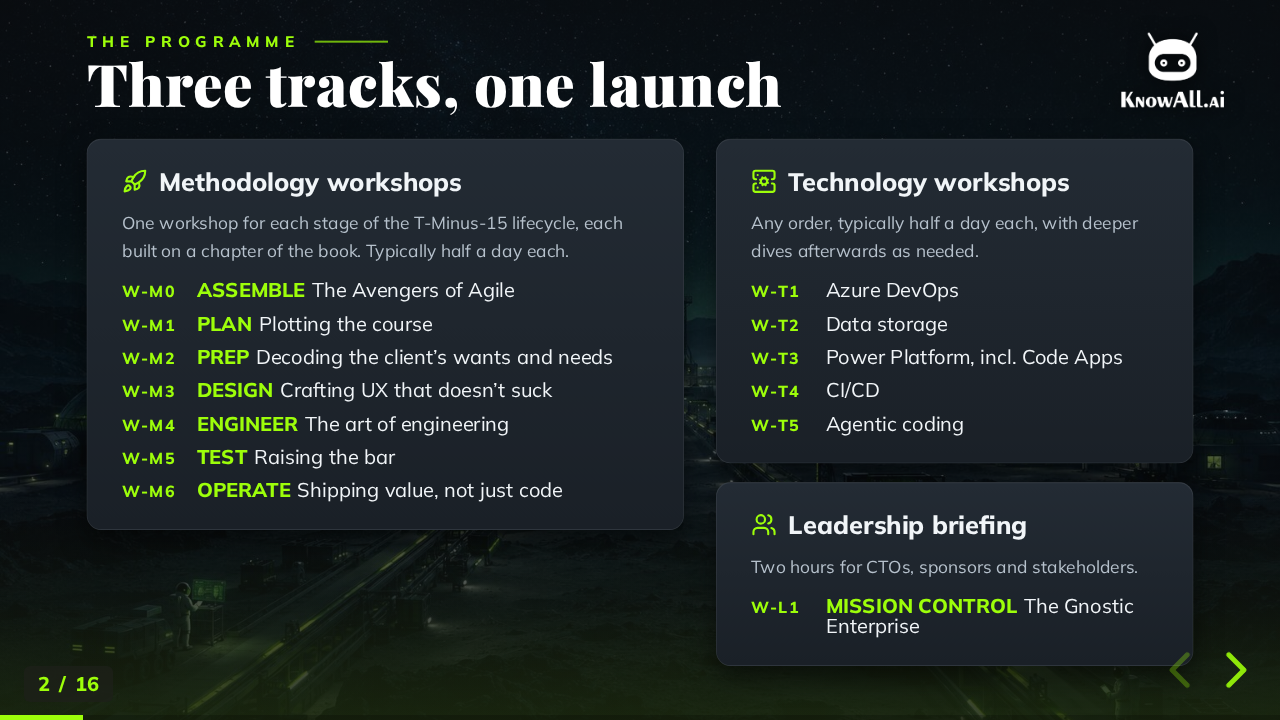
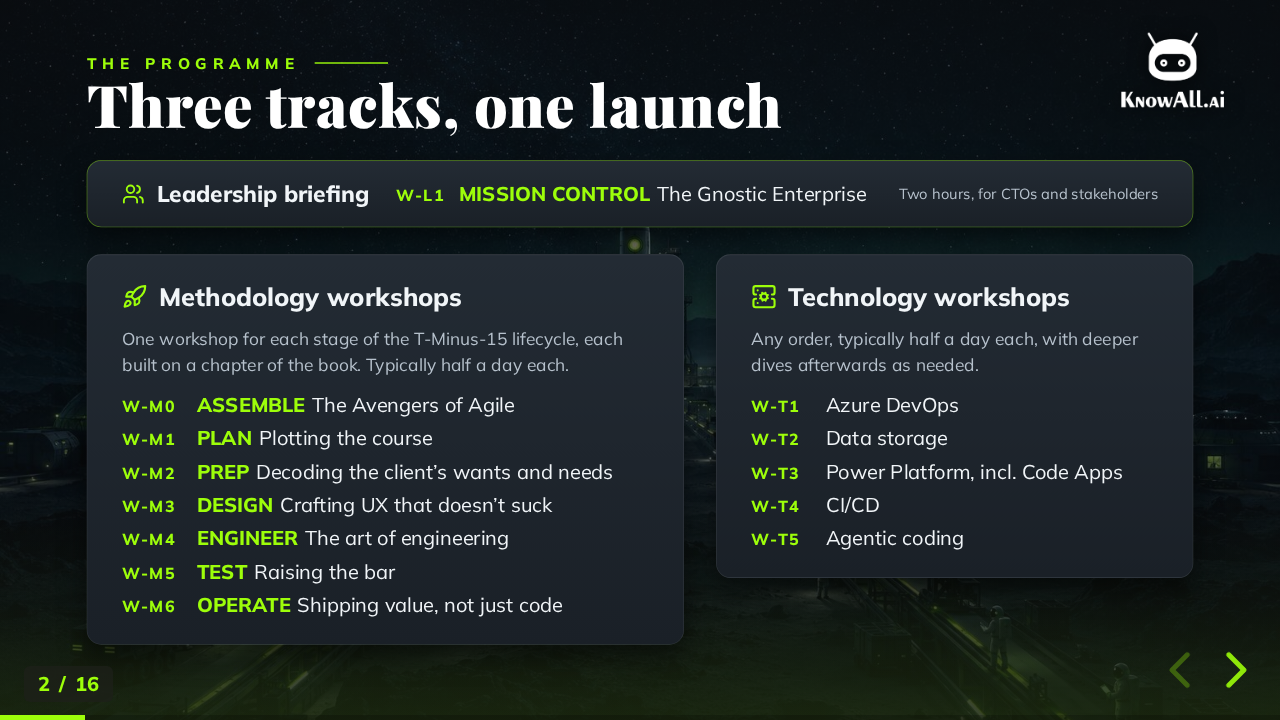
feat(presentations): leadership briefing leads the overview slide
Slide 2's Leadership briefing moves from under the technology card to a
slim full-width strip above both workshop tracks, matching the deck order
(the briefing is slide 3, before the workshops).

diff --git a/presentations-src/tminus15-workshops.html b/presentations-src/tminus15-workshops.html
@@ -69,15 +69,58 @@
         align-items: start;
       }
 
-      .tm-stack {
+      /* Leadership briefing: a slim strip above the two workshop tracks. */
+      .tm-lead {
         display: flex;
-        flex-direction: column;
-        gap: 28px;
+        align-items: center;
+        gap: 40px;
+        padding: 26px 52px;
+        background: linear-gradient(180deg, var(--panel), var(--panel-lo));
+        border: 1px solid var(--line-lime, var(--line));
+        border-radius: 22px;
+        box-shadow: var(--shadow-card), var(--inset-top);
       }
 
-      .tm-track--lead {
-        padding: 34px 48px;
-        gap: 16px;
+      .tm-lead h3 {
+        display: flex;
+        align-items: center;
+        gap: 18px;
+        font-size: 34px;
+        color: var(--text);
+        white-space: nowrap;
+      }
+
+      .tm-lead h3 .ic {
+        color: var(--lime);
+      }
+
+      .tm-lead .tm-lead-item {
+        display: flex;
+        align-items: baseline;
+        gap: 22px;
+        font-size: 30px;
+        color: var(--text);
+        white-space: nowrap;
+      }
+
+      .tm-lead .code {
+        font-weight: 800;
+        font-size: 24px;
+        letter-spacing: 0.08em;
+        color: var(--lime);
+      }
+
+      .tm-lead .phase {
+        font-weight: 800;
+        color: var(--lime);
+        margin-right: 10px;
+      }
+
+      .tm-lead .tm-rule {
+        margin-left: auto;
+        font-size: 22px;
+        color: var(--mist);
+        white-space: nowrap;
       }
 
       .tm-track {
@@ -323,6 +366,11 @@
               <p class="kicker">The programme</p>
               <h2>Three tracks, one launch</h2>
             </div>
+            <div class="tm-lead">
+              <h3><svg class="ic" aria-hidden="true"><use href="icons.svg#i-users" /></svg>Leadership briefing</h3>
+              <p class="tm-lead-item"><span class="code">W-L1</span><span><span class="phase">MISSION CONTROL</span>The Gnostic Enterprise</span></p>
+              <p class="tm-rule">Two hours, for CTOs and stakeholders</p>
+            </div>
             <div class="tm-tracks">
               <div class="tm-track">
                 <h3><svg class="ic" aria-hidden="true"><use href="icons.svg#i-rocket" /></svg>Methodology workshops</h3>
@@ -337,7 +385,6 @@
                   <li><span class="code">W-M6</span><span><span class="phase">OPERATE</span>Shipping value, not just code</span></li>
                 </ol>
               </div>
-              <div class="tm-stack">
               <div class="tm-track">
                 <h3><svg class="ic" aria-hidden="true"><use href="icons.svg#i-server-cog" /></svg>Technology workshops</h3>
                 <p class="tm-rule">Any order, typically half a day each, with deeper dives afterwards as needed.</p>
@@ -348,14 +395,6 @@
                   <li><span class="code">W-T4</span><span>CI/CD</span></li>
                   <li><span class="code">W-T5</span><span>Agentic coding</span></li>
                 </ol>
-              </div>
-              <div class="tm-track tm-track--lead">
-                <h3><svg class="ic" aria-hidden="true"><use href="icons.svg#i-users" /></svg>Leadership briefing</h3>
-                <p class="tm-rule">Two hours for CTOs, sponsors and stakeholders.</p>
-                <ol>
-                  <li><span class="code">W-L1</span><span><span class="phase">MISSION CONTROL</span>The Gnostic Enterprise</span></li>
-                </ol>
-              </div>
               </div>
             </div>
           </div>

diff --git a/public/presentations/tminus15-workshops.html b/public/presentations/tminus15-workshops.html
@@ -93,15 +93,58 @@
         align-items: start;
       }
 
-      .tm-stack {
+      /* Leadership briefing: a slim strip above the two workshop tracks. */
+      .tm-lead {
         display: flex;
-        flex-direction: column;
-        gap: 28px;
+        align-items: center;
+        gap: 40px;
+        padding: 26px 52px;
+        background: linear-gradient(180deg, var(--panel), var(--panel-lo));
+        border: 1px solid var(--line-lime, var(--line));
+        border-radius: 22px;
+        box-shadow: var(--shadow-card), var(--inset-top);
       }
 
-      .tm-track--lead {
-        padding: 34px 48px;
-        gap: 16px;
+      .tm-lead h3 {
+        display: flex;
+        align-items: center;
+        gap: 18px;
+        font-size: 34px;
+        color: var(--text);
+        white-space: nowrap;
+      }
+
+      .tm-lead h3 .ic {
+        color: var(--lime);
+      }
+
+      .tm-lead .tm-lead-item {
+        display: flex;
+        align-items: baseline;
+        gap: 22px;
+        font-size: 30px;
+        color: var(--text);
+        white-space: nowrap;
+      }
+
+      .tm-lead .code {
+        font-weight: 800;
+        font-size: 24px;
+        letter-spacing: 0.08em;
+        color: var(--lime);
+      }
+
+      .tm-lead .phase {
+        font-weight: 800;
+        color: var(--lime);
+        margin-right: 10px;
+      }
+
+      .tm-lead .tm-rule {
+        margin-left: auto;
+        font-size: 22px;
+        color: var(--mist);
+        white-space: nowrap;
       }
 
       .tm-track {
@@ -347,6 +390,11 @@
               <p class="kicker">The programme</p>
               <h2>Three tracks, one launch</h2>
             </div>
+            <div class="tm-lead">
+              <h3><svg class="ic" aria-hidden="true"><use href="icons.svg#i-users" /></svg>Leadership briefing</h3>
+              <p class="tm-lead-item"><span class="code">W-L1</span><span><span class="phase">MISSION CONTROL</span>The Gnostic Enterprise</span></p>
+              <p class="tm-rule">Two hours, for CTOs and stakeholders</p>
+            </div>
             <div class="tm-tracks">
               <div class="tm-track">
                 <h3><svg class="ic" aria-hidden="true"><use href="icons.svg#i-rocket" /></svg>Methodology workshops</h3>
@@ -361,7 +409,6 @@
                   <li><span class="code">W-M6</span><span><span class="phase">OPERATE</span>Shipping value, not just code</span></li>
                 </ol>
               </div>
-              <div class="tm-stack">
               <div class="tm-track">
                 <h3><svg class="ic" aria-hidden="true"><use href="icons.svg#i-server-cog" /></svg>Technology workshops</h3>
                 <p class="tm-rule">Any order, typically half a day each, with deeper dives afterwards as needed.</p>
@@ -372,14 +419,6 @@
                   <li><span class="code">W-T4</span><span>CI/CD</span></li>
                   <li><span class="code">W-T5</span><span>Agentic coding</span></li>
                 </ol>
-              </div>
-              <div class="tm-track tm-track--lead">
-                <h3><svg class="ic" aria-hidden="true"><use href="icons.svg#i-users" /></svg>Leadership briefing</h3>
-                <p class="tm-rule">Two hours for CTOs, sponsors and stakeholders.</p>
-                <ol>
-                  <li><span class="code">W-L1</span><span><span class="phase">MISSION CONTROL</span>The Gnostic Enterprise</span></li>
-                </ol>
-              </div>
               </div>
             </div>
           </div>
